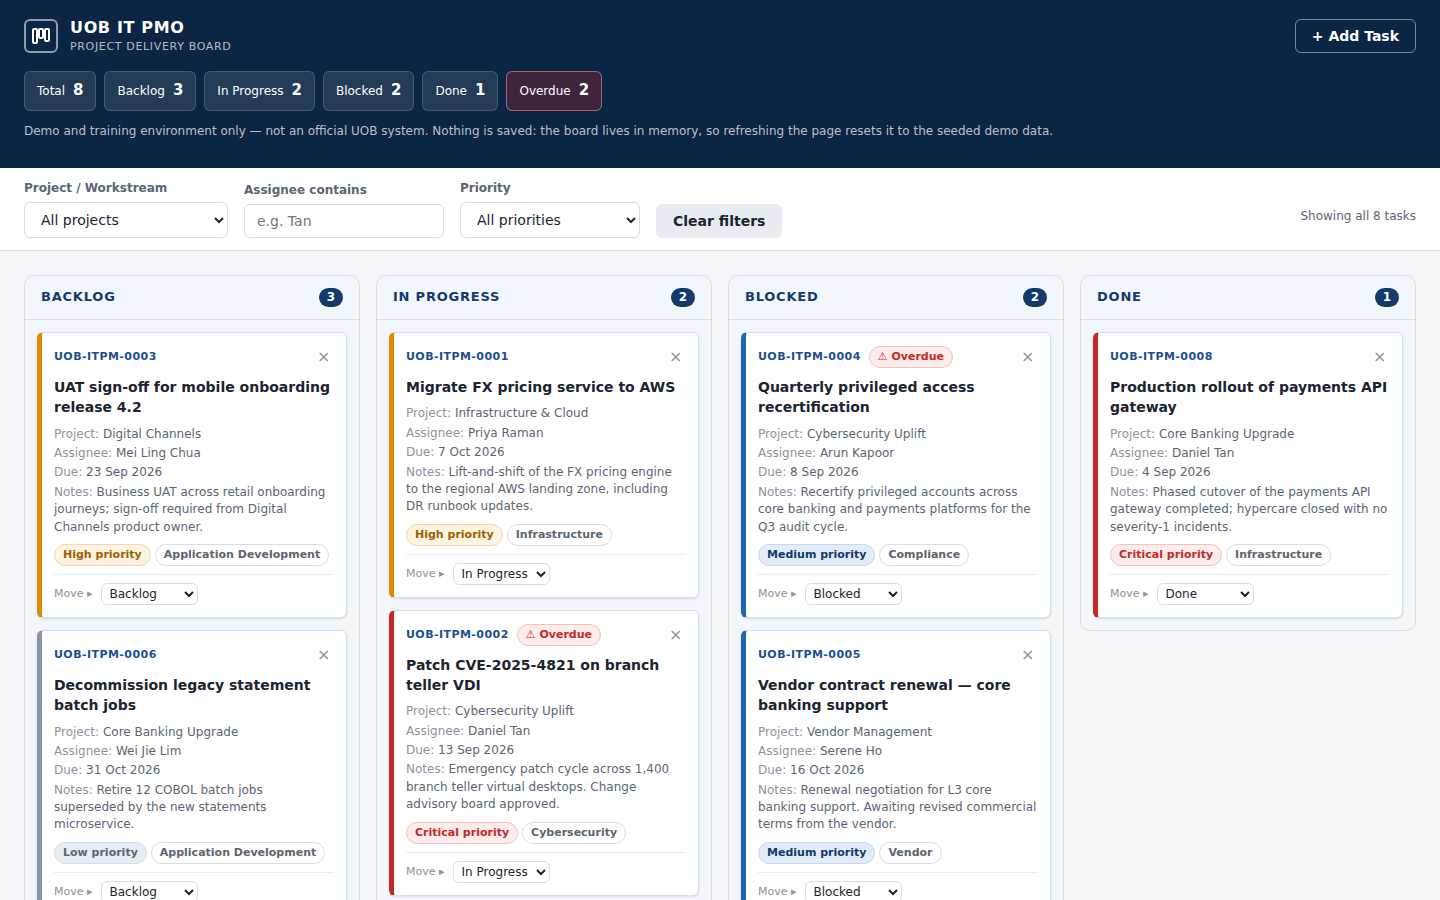
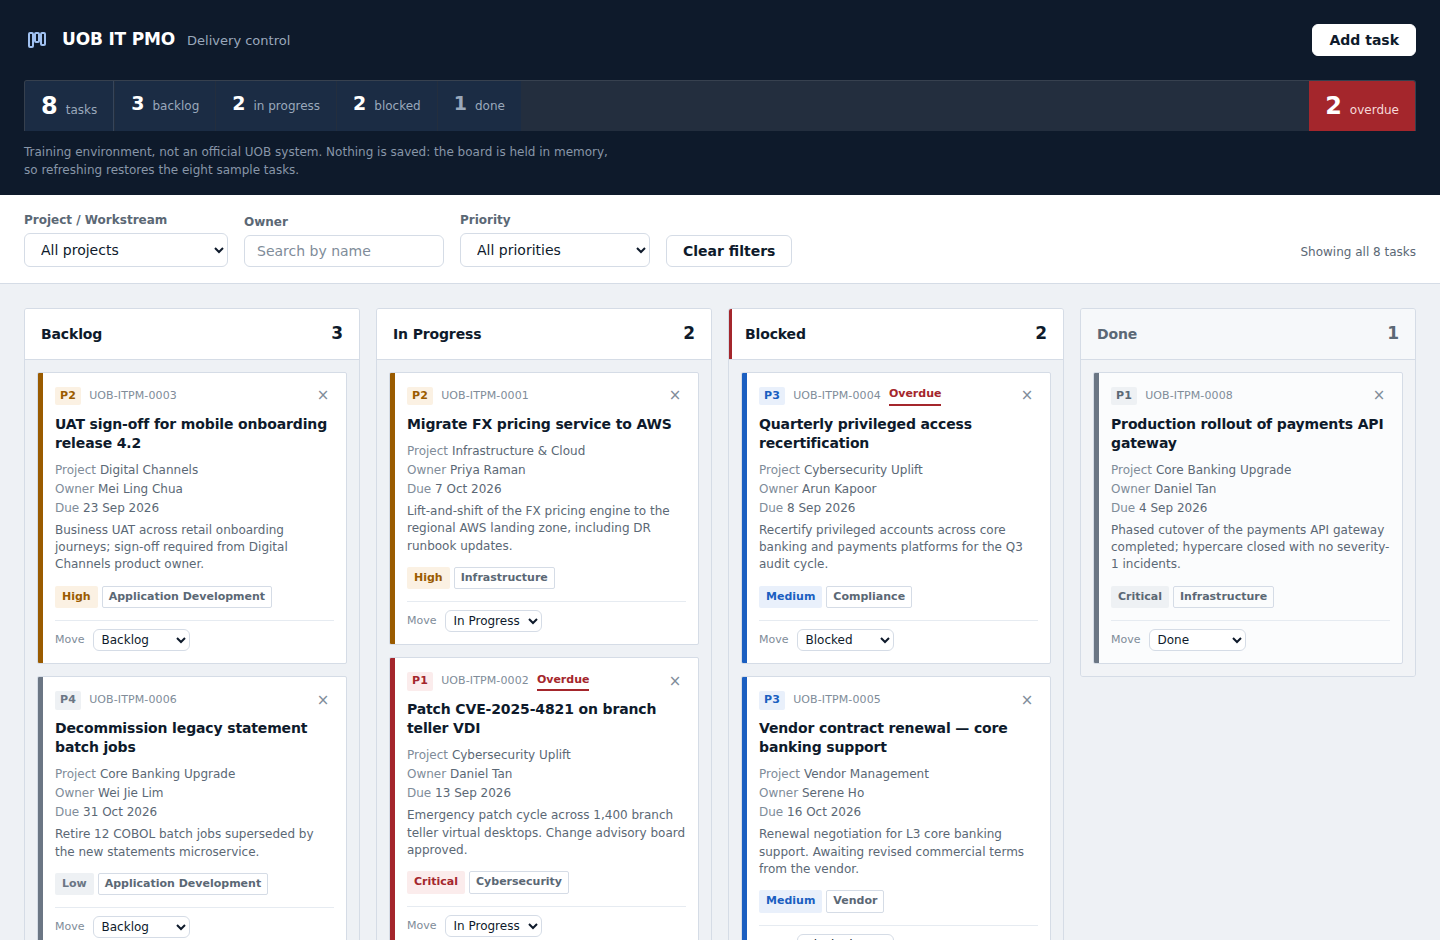
Update README screenshots to the redesigned board
Captured from the live Pages deployment at 1440x940 and 390x1240 through
the Playwright MCP server. Alt text describes what the figures actually
show, including the severity codes that replaced colour-only priority.

diff --git a/README.md b/README.md
@@ -9,12 +9,12 @@ internal **demo and training tool**.
 > text wordmark and a generic corporate blue palette — no UOB logo, trademark, or branding,
 > and it does not reproduce or connect to any real UOB system. All task data is invented.
 
-![The board on desktop — four columns with live count badges, colour-coded priority borders and overdue badges](docs/board-desktop.png)
+![The board on desktop: a dark status bar showing 8 tasks, 3 backlog, 2 in progress, 2 blocked, 1 done and 2 overdue highlighted in red, above four columns of task cards each carrying a P1-P4 severity code and a colour-coded spine](docs/board-desktop.png)
 
 <details>
 <summary>On a phone (390px) — columns stack</summary>
 
-![The same board at 390px wide, with the four columns stacked vertically](docs/board-mobile.png)
+![The same board at 390px wide: the status figures wrap into a grid and the four columns stack vertically](docs/board-mobile.png)
 
 </details>
 
@@ -36,9 +36,10 @@ The live link above serves the same file over HTTPS.
 - **Keyboard equivalent** — every card carries a `Move ▸` control, so the board is fully
   operable without a mouse. Drag-and-drop is mouse-only, so this is the accessible path,
   not a convenience.
-- **Cards** show task ID, title, project, assignee, priority, due date and category. The
-  left border is colour-coded by priority and the pill repeats it in words, so colour is
-  never the only signal. Overdue tasks (due date passed, not yet Done) get a badge.
+- **Cards** show a severity code (P1-P4), task ID, title, project, owner, due date and
+  category. Priority reads three ways — the spine colour, the code, and the written word —
+  so colour is never the only signal. Overdue tasks (due date passed, not yet Done) are
+  flagged. Finished work is deliberately muted: a closed task should not signal risk.
 - **Add Task** modal with inline validation — no `alert()`, no `confirm()`. Deleting a card
   uses an inline `Delete? Yes / No` row inside the card itself.
 - **Filters** by project, assignee (case-insensitive contains) and priority, plus a live
